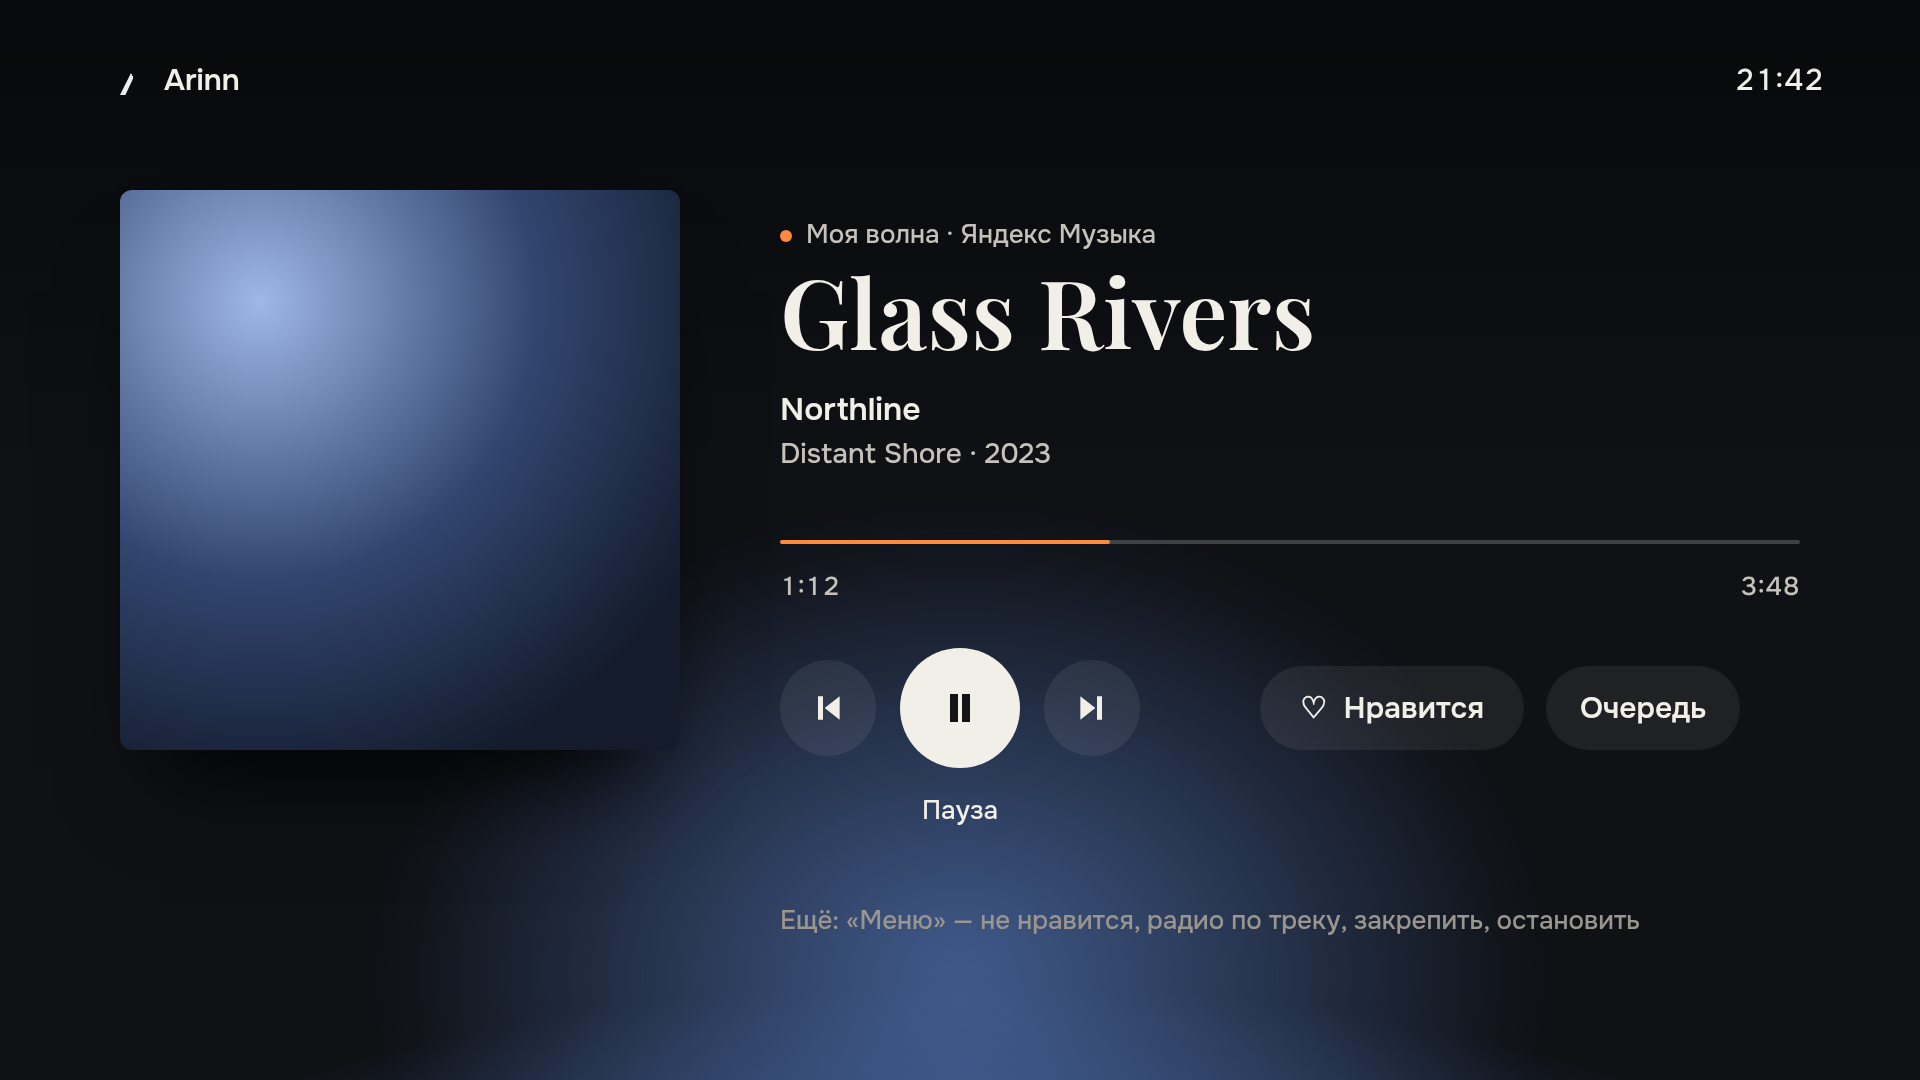
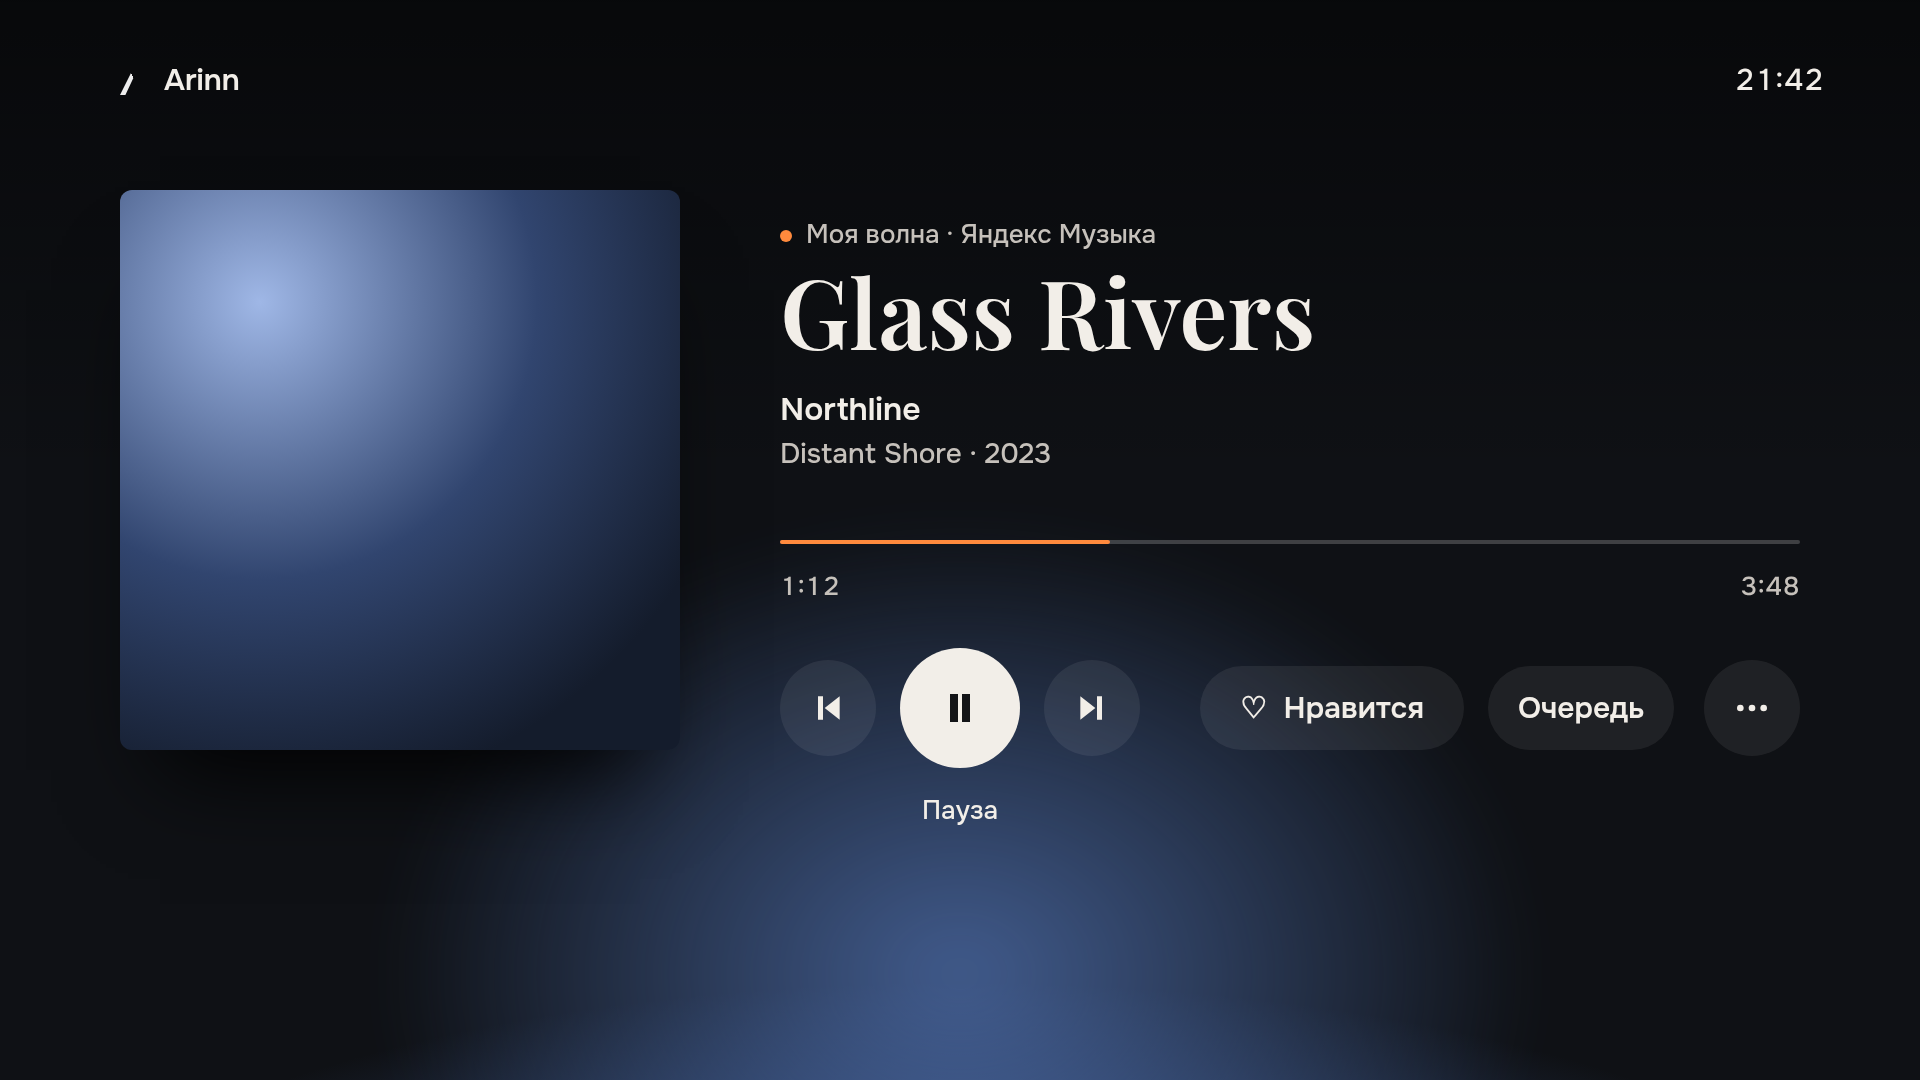
Music brief: source actions in the source sheet, More as a row button
Address the review of #799:

- Settings has no Music category, and its rows hold typed values, not
  actions (§5.6, ADR-0065). Refresh, Connect and Disconnect therefore
  live in the source sheet opened from the header, still off the
  browsing surface (MH-5).
- Inside the shell, Menu toggles global navigation (§6.2), so it cannot
  open the More sheet. A round More button now ends the player row and
  is always present (MH-3). The frame mh-03 is re-rendered.

Refs #796.

Changed region(s): [[0.5312, 0.825, 0.8438, 0.8861], [0.6562, 0.6417, 0.9062, 0.6722], [0.4062, 0.825, 0.5, 0.8556]]

diff --git a/docs/design/briefs/music-hearth-light/frames.html b/docs/design/briefs/music-hearth-light/frames.html
@@ -213,12 +213,13 @@ body.only .frame { width: 1920px; border-radius: 0; margin: 0; box-shadow: none;
     <div class="round" style="left:780px;top:660px;"><svg class="ico" viewBox="0 0 24 24"><path fill="#F2EEE8" d="M6 5h3v14H6zM19 5L10 12l9 7z"/></svg></div>
     <div class="round big focus" style="left:900px;top:648px;"><svg class="ico" style="width:48px;height:48px" viewBox="0 0 24 24"><path fill="#131417" d="M7 5h4v14H7zM13 5h4v14h-4z"/></svg></div>
     <div class="round" style="left:1044px;top:660px;"><svg class="ico" viewBox="0 0 24 24"><path fill="#F2EEE8" d="M15 5h3v14h-3zM5 5l9 7-9 7z"/></svg></div>
-    <div class="pill" style="left:1260px;top:666px;">♡&nbsp; Нравится</div>
-    <div class="pill" style="left:1546px;top:666px;padding:0 34px;">Очередь</div>
+    <div class="pill" style="left:1200px;top:666px;">♡&nbsp; Нравится</div>
+    <div class="pill" style="left:1488px;top:666px;padding:0 30px;">Очередь</div>
+    <div class="round" style="left:1704px;top:660px;"><svg class="ico" viewBox="0 0 24 24"><circle cx="5" cy="12" r="2" fill="#F2EEE8"/><circle cx="12" cy="12" r="2" fill="#F2EEE8"/><circle cx="19" cy="12" r="2" fill="#F2EEE8"/></svg></div>
     <div class="meta28" style="left:900px;top:790px;width:120px;text-align:center;font-size:26px;color:#F2EEE8;">Пауза</div>
-    <div class="meta28" style="left:780px;top:900px;font-size:26px;color:#9A958F;">Ещё: «Меню» — не нравится, радио по треку, закрепить, остановить</div>
+    
   </div></div>
-<p class="caption">Now playing: large artwork, floor and pool in the artwork hue, Playfair title, Ember seek line, previous / play-pause / next (play-pause 120, default focus), labelled Like and Queue pills; the rest in More.</p></section>
+<p class="caption">Now playing: large artwork, floor and pool in the artwork hue, Playfair title, Ember seek line, previous / play-pause / next (play-pause 120, default focus), labelled Like and Queue pills and a More button; the rest is in the More sheet.</p></section>
 <section data-id="mh-04-home-presence"><h2>mh-04-home-presence</h2>
 <div class="frame" data-frame id="mh-04-home-presence"><div class="stage">
     <div class="ceiling"></div><div class="floor"></div>

diff --git a/docs/design/briefs/music-hearth-light/README.md b/docs/design/briefs/music-hearth-light/README.md
@@ -47,9 +47,9 @@ Given on 2026-11-06 in the Claude session of [#756](https://github.com/LimeBeck/
 | --- | --- |
 | MH-1 | **Direction A, shelves.** The Music root is a Home-like room with a hero and shelves. Rejected: B (the section opens on the player, with the catalogue as a shelf below) and C (the current list restyled to the roles). |
 | MH-2 | **Continue card, variant 1.** A centred cover over its own blurred backdrop, a playing equaliser in a neutral chip and an Ember progress line. Rejected: a mini-player (cover on the left, time on the right) and a full-bleed cover, which crops a square cover by 44 %. |
-| MH-3 | **Player row.** Previous, play/pause and next, then the labelled pills *Like* and *Queue*. Dislike, *Radio from this track*, *Pin station* and *Stop* move to the *More* sheet. This replaces the layout B row selected on 2026-11-01. |
+| MH-3 | **Player row.** Previous, play/pause and next, then the labelled pills *Like* and *Queue* and a *More* button. Dislike, *Radio from this track*, *Pin station* and *Stop* move to the *More* sheet. This replaces the layout B row selected on 2026-11-01. |
 | MH-4 | **Status area.** While music plays, an Ember dot and "track · artist" appear left of the clock. |
-| MH-5 | **Source.** One header control with a sheet. *Refresh* and *Disconnect* move to *Settings › Music*. |
+| MH-5 | **Source.** One header control with a sheet. *Refresh* and *Disconnect* leave the browsing surface and move into that sheet. The decision first named *Settings › Music*. Settings has no such category, and its rows hold typed values, not actions (§5.6, [ADR-0065](../../../adr/0065-provider-settings-contract.md)). So the review of #799 moved the actions to the source sheet. The intent, no housekeeping on the browsing surface, is unchanged. |
 | MH-6 | **Stations on Favourites.** Stations can be pinned to the Favourites shelf on Home. |
 | MH-7 | **Quick menu.** While media plays, the *Now playing* row becomes a media card with transport and *Open player*. |
 | MH-8 | **Ambient during music.** Automatic Ambient may start while music plays, and it shows the current track. It still does not start while video or other media plays. This changes [specification §5.7](../../../specifications/arinn-specification.md#57-system-ui-power-and-ambient). Until now the rule was violated by accident (M4). |
@@ -66,6 +66,7 @@ Measurements are for the 1920 × 1080 canvas. Unlisted values come from the [Hea
   - Below it come the title in Playfair Display 96 (68 on two lines) and a meta line of 28.
 - **Header controls** on the right of the hero line: the source control (MH-5) and a *Find* pill.
   - The source control is an action pill with the source name and a chevron. It opens a right-hand sheet that lists the sources with their connection state and a check on the current one (M11).
+  - Each source row in the sheet holds that source's housekeeping as pills, by capability: *Connect*, *Refresh* and *Disconnect* (MH-5). *Disconnect* asks for confirmation, with Cancel as the initial focus. A provider's typed settings, such as local music folders, stay in their Settings category.
   - *Find* opens the music search screen, laid out like *Site or search*.
 - **Shelves**, in this order. A shelf the source cannot supply is absent, not empty.
   1. *Stations*: My Wave, mixes and pinned stations as 16:9 cards 448 × 252. The playing station shows the playing chip (see *Continue card*).
@@ -75,7 +76,7 @@ Measurements are for the 1920 × 1080 canvas. Unlisted values come from the [Hea
   5. *Recent tracks*: a short shelf of square covers. Selecting one plays it in the context it came from.
 - **Each shelf ends with an *All* tile.** It opens the full list or grid for that facet: the former facet screens, now in container rows.
 - **Light.** Rows follow the Hearth light rules: the focused row at 0.82, other rows at 0.62, the floor light on, the pool keyed to the focused artwork.
-- **First use.** With no connected source, the hero explains the next step ("Connect a source in Settings › Music") and offers that one action. The shelves stay absent. Arinn never shows an empty connected library.
+- **First use.** With no connected source, the hero explains the next step ("Connect a source") and offers that one action. The shelves stay absent. Arinn never shows an empty connected library.
 
 ### Album, playlist and artist detail (`mh-02`)
 
@@ -115,7 +116,7 @@ Back restores the opening entity on the root or in the list (M16).
   - *Like* shows its selected state as a filled heart plus "Liked", not only as a stronger plate (M18). It has pending and failure states.
 - **D-pad.** Up from the row goes to the seek line, Down from the seek line returns to play/pause. Left and Right move along the row and stop at its ends (M15).
 - **Labels.** Labels under the round buttons appear in focus at 26 (M14).
-- **More.** The Menu key, or a *More* pill when the row has room, opens the *More* sheet. A hint line under the row says so.
+- **More.** A round *More* button (96, `more_horiz`) ends the row and opens the *More* sheet. It is always present. The Menu key keeps its §6.2 meaning (global navigation) and never opens the sheet.
 - **No Stop button in the row.** Stopping is in *More*.
 
 ### More sheet

diff --git a/docs/adr/0142-music-in-hearth-light.md b/docs/adr/0142-music-in-hearth-light.md
@@ -29,9 +29,9 @@ The [music Hearth light brief](../design/briefs/music-hearth-light/README.md) an
 | --- | --- |
 | MH-1 | The Music root is a Home-like room: a hero describing the focused item, then shelves of Stations, For you, Albums, Artists and Recent tracks. Album, playlist and artist detail is built like the movie detail. |
 | MH-2 | The music Continue card shows a centred cover over its own blurred backdrop, a playing equaliser in a neutral chip and an Ember progress line. |
-| MH-3 | The player row is previous, play/pause (the default focus) and next, then the labelled pills *Like* and *Queue*. Other actions are in a *More* sheet. This replaces layout B. |
+| MH-3 | The player row is previous, play/pause (the default focus) and next, then the labelled pills *Like* and *Queue* and a *More* button that opens a sheet with the other actions. The Menu key keeps its meaning (§6.2). This replaces layout B. |
 | MH-4 | While music plays, the status area shows an Ember dot and "track · artist". |
-| MH-5 | The source is one header control with a sheet. *Refresh* and *Disconnect* live in *Settings › Music*. |
+| MH-5 | The source is one header control with a sheet. *Refresh*, *Connect* and *Disconnect* live in that sheet, off the browsing surface. Settings has no Music category and holds no actions (§5.6, [ADR-0065](0065-provider-settings-contract.md)). |
 | MH-6 | Stations can be pinned to the Favourites shelf on Home. |
 | MH-7 | While media plays or is paused, the Quick menu's *Now playing* row is a media card with previous, play/pause, next and *Open player*. It is fed by the music session as well as by media sessions. |
 | MH-8 | Automatic Ambient may start while music plays, and Ambient shows the current track. It still must not start while video or other media plays, or while an external Activity is in the foreground. |

diff --git a/docs/specifications/arinn-specification.md b/docs/specifications/arinn-specification.md
@@ -212,7 +212,7 @@ track/album/artist/playlist browsing, search and an independent background audio
 session. The Music section is laid out like Home: a hero over shelves of
 stations, personal playlists, albums, artists and recent tracks, with the source
 as one header control. The player row holds previous, play/pause and next, plus
-Like and Queue; other actions are in a More sheet. Owner decision on 2026-11-06
+Like, Queue and More; More opens a sheet with the other actions. Owner decision on 2026-11-06
 ([ADR-0142](../adr/0142-music-in-hearth-light.md)), replacing the single-row
 layout B selected in #707/#710. Browsing
 another source MUST preserve the active session; replacing its queue MUST ask
